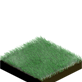
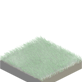
Tile sweeping.

diff --git a/js/core/Map.js b/js/core/Map.js
@@ -7,6 +7,7 @@ function Map(level) {
 	this.gapX = -Math.floor(this.width / 2 - 1) * this.gapSize * 7;
 	this.gapY = 0;
 	this.items = [];
+	this.sweepRow = 0;
 
 	this.init = function() {
 		this.spawnItems();
@@ -22,7 +23,7 @@ function Map(level) {
 			if (data[i] < 10 && data[i + 1] < 10 && data[i + 2] < 10) { var tempType = "black"; }
 			if (data[i] > 240 && data[i + 1] > 240 && data[i + 2] > 240) { var tempType = "white"; }
 			if (data[i] > 240 && data[i + 1] < 10 && data[i + 2] < 10) { var tempType = "red"; }
-			if (data[i] < 10 && data[i + 1] > 255 && data[i + 2] < 10) { var tempType = "green"; }
+			if (data[i] == 10 && data[i + 1] == 255 && data[i + 2] == 10) { var tempType = "green"; }
 			if (data[i] == 130 && data[i + 1] == 80 && data[i + 2] == 0) { var tempType = "brown"; }
 			if (data[i] < 10 && data[i + 1] < 10 && data[i + 2] > 240) { var tempType = "blue"; }
 			if (data[i] > 240 && data[i + 1] > 240 && data[i + 2] < 10) { var tempType = "yellow"; }
@@ -30,6 +31,13 @@ function Map(level) {
 			if (data[i] < 10 && data[i + 1] > 240 && data[i + 2] > 240) { var tempType = "cyan"; }
 			this.tiles.push(new Tile(tempType, tempX, tempY));
 		}
+	}.bind(this);
+
+	this.sweep = function () {
+		for (var tile in this.tiles) {
+			if (this.tiles[tile].x % this.gapSize === this.sweepRow) { this.tiles[tile].frozen = true; }
+		}
+		this.sweepRow++;
 	}.bind(this);
 };
 
@@ -44,11 +52,15 @@ Map.prototype.tick = function () {
 Map.prototype.render = function () {
 	for (var tile in this.tiles) {
 		var iso = Util.cartesianToIso(this.tiles[tile].x * this.gapProySize / 2, this.tiles[tile].y * this.gapProySize / 2);
-		game.context.drawImage(this.tiles[tile].img, iso.x + this.gapX, iso.y + this.gapY);
+		game.context.drawImage(this.tiles[tile].frozen ? game.tiles.white.img : this.tiles[tile].img, iso.x + this.gapX, iso.y + this.gapY);
 	}
 };
 
-Map.prototype.update = function () {};
+Map.prototype.update = function () {
+	if (game.ticks % 10 === 0) {
+		this.sweep();
+	}
+};
 
 Map.prototype.spawnItems = function () {
 	for (var i = 0; i < Math.floor(Math.random() * 5000); i++) {

diff --git a/js/core/Game.js b/js/core/Game.js
@@ -4,6 +4,7 @@ function Game(config) {
 	this.context = this.canvas.getContext("2d");
 
 	this.clock = null;
+	this.ticks = 0;
 	this.fps = config.fps;
 
 	this.inGame = false;
@@ -38,6 +39,7 @@ function Game(config) {
 			this.player.tick();
 		}
 
+		this.ticks++;
 		clearTimeout(this.clock);
 		this.clock = setTimeout(this.loop, 1000 / this.fps);
 	}.bind(this);

diff --git a/js/core/Tile.js b/js/core/Tile.js
@@ -3,4 +3,5 @@ function Tile(type, x, y) {
 	this.x = x;
 	this.y = y;
 	this.img = game.tiles[this.type].img;
+	this.frozen = false;
 }
